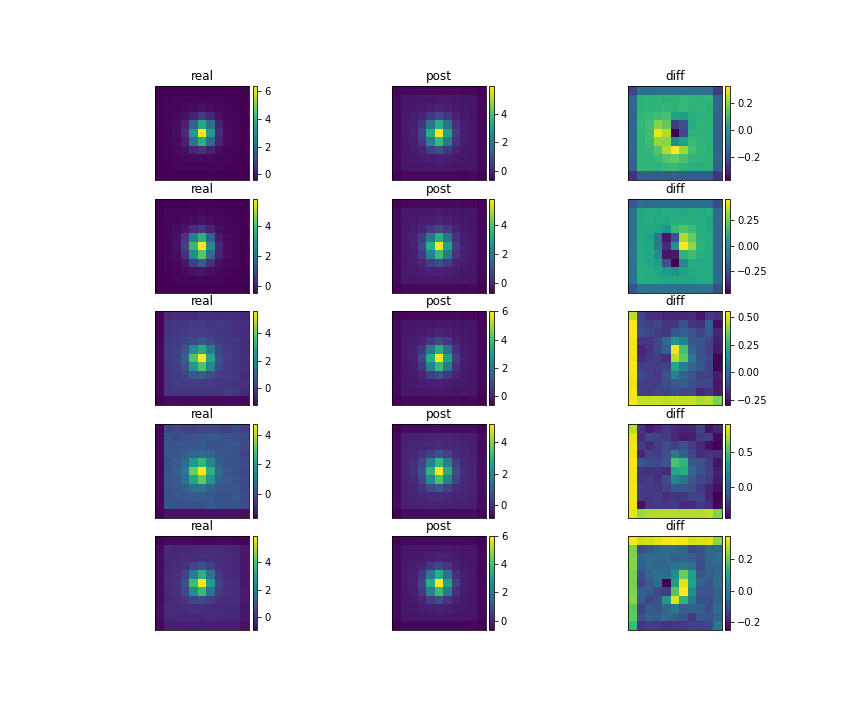
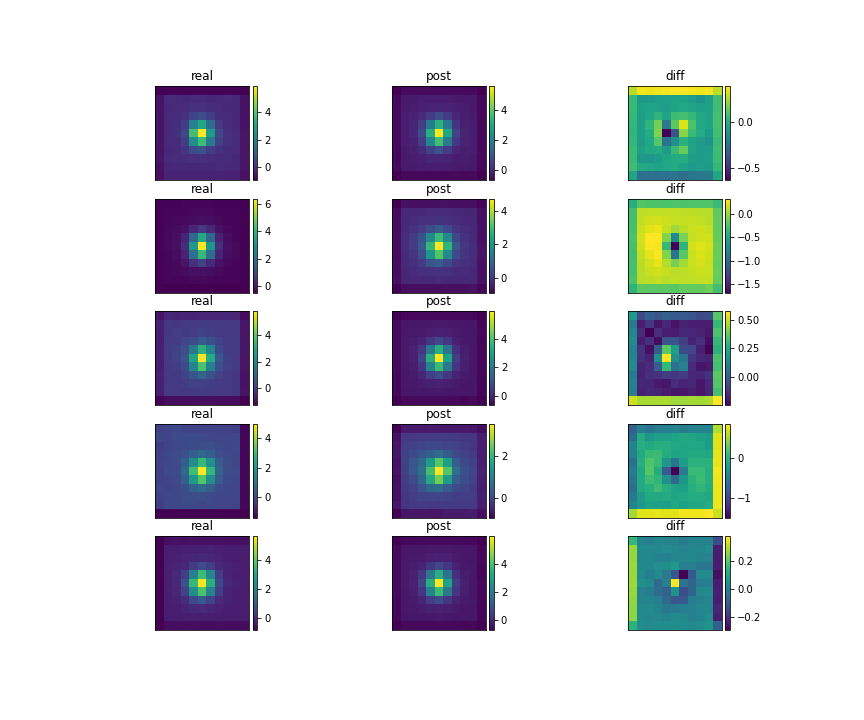
update random predictions

diff --git a/case_studies/sdss_psf/sdss_psf.py b/case_studies/sdss_psf/sdss_psf.py
@@ -320,7 +320,12 @@ p.savefig("cluster_compare_0_200.png")
 mses = calc_mse(sdss_dataset, m)
 mses.to_csv("mses_sdss.csv")
 # %%
-idxs = np.random.choice(Y.size(0), 5, replace=False)
-p, a = plot_stars(Y[idxs], x[idxs])
+# Scramble order
+new_order = np.random.choice(Y.size(0), Y.size(0), replace=False)
+X_test, Y_test = X[new_order], Y[new_order]
+S_test = Y_test[:200]
+x_test = m.predict(X_test, S_test)
+idxs = np.random.choice(range(200, Y.size(0)), 5, replace=False)
+p, a = plot_stars(Y[idxs], x_test[idxs])
 p.savefig("random_predictions.png")
 # %%
